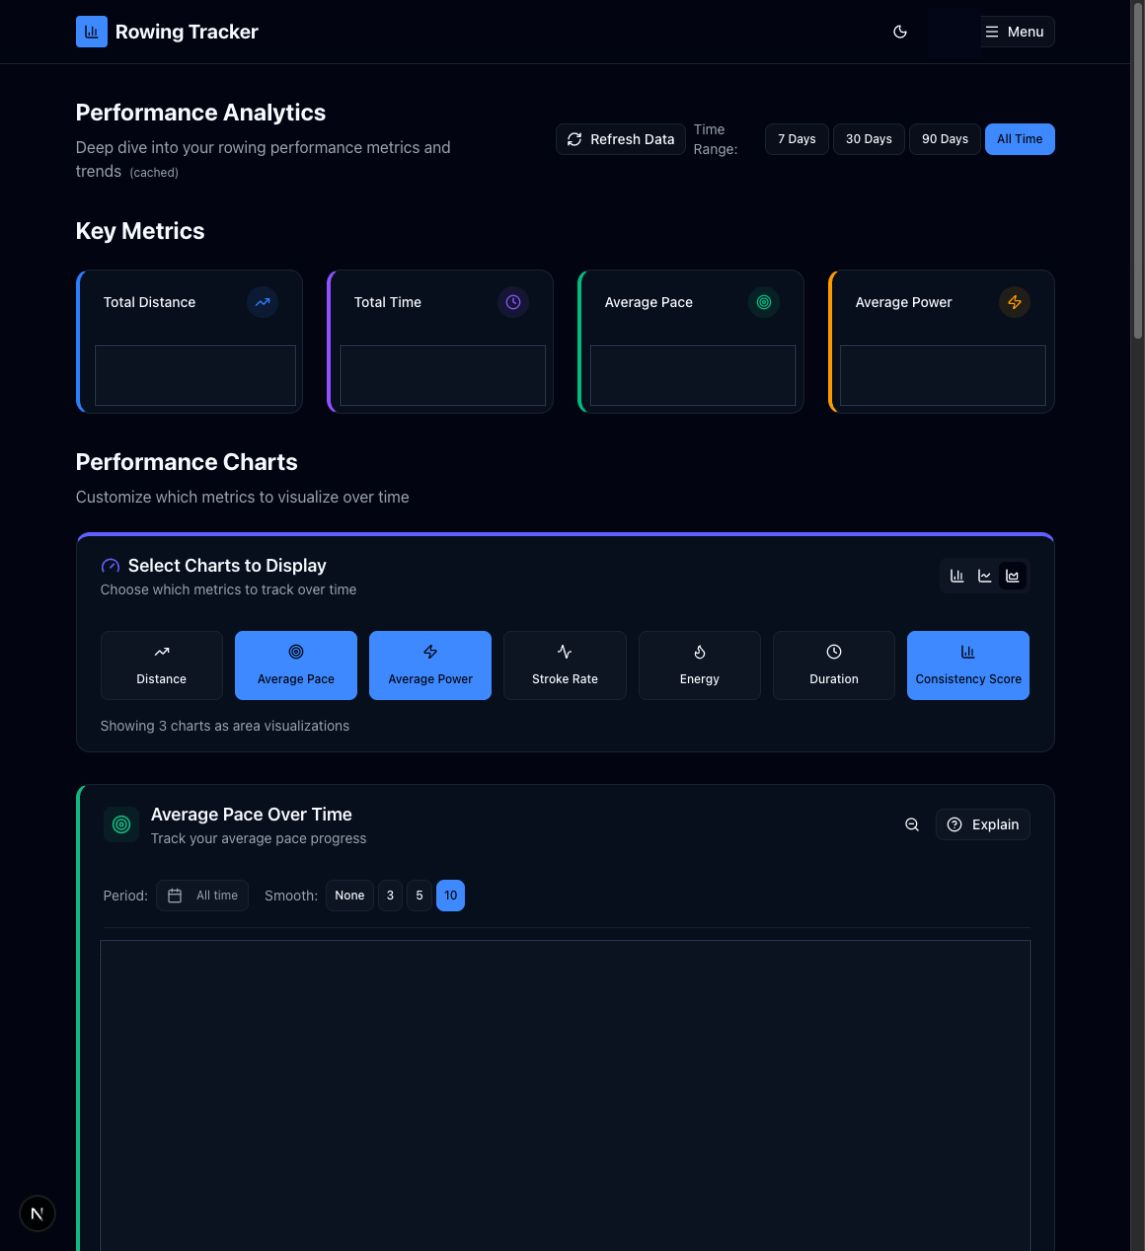
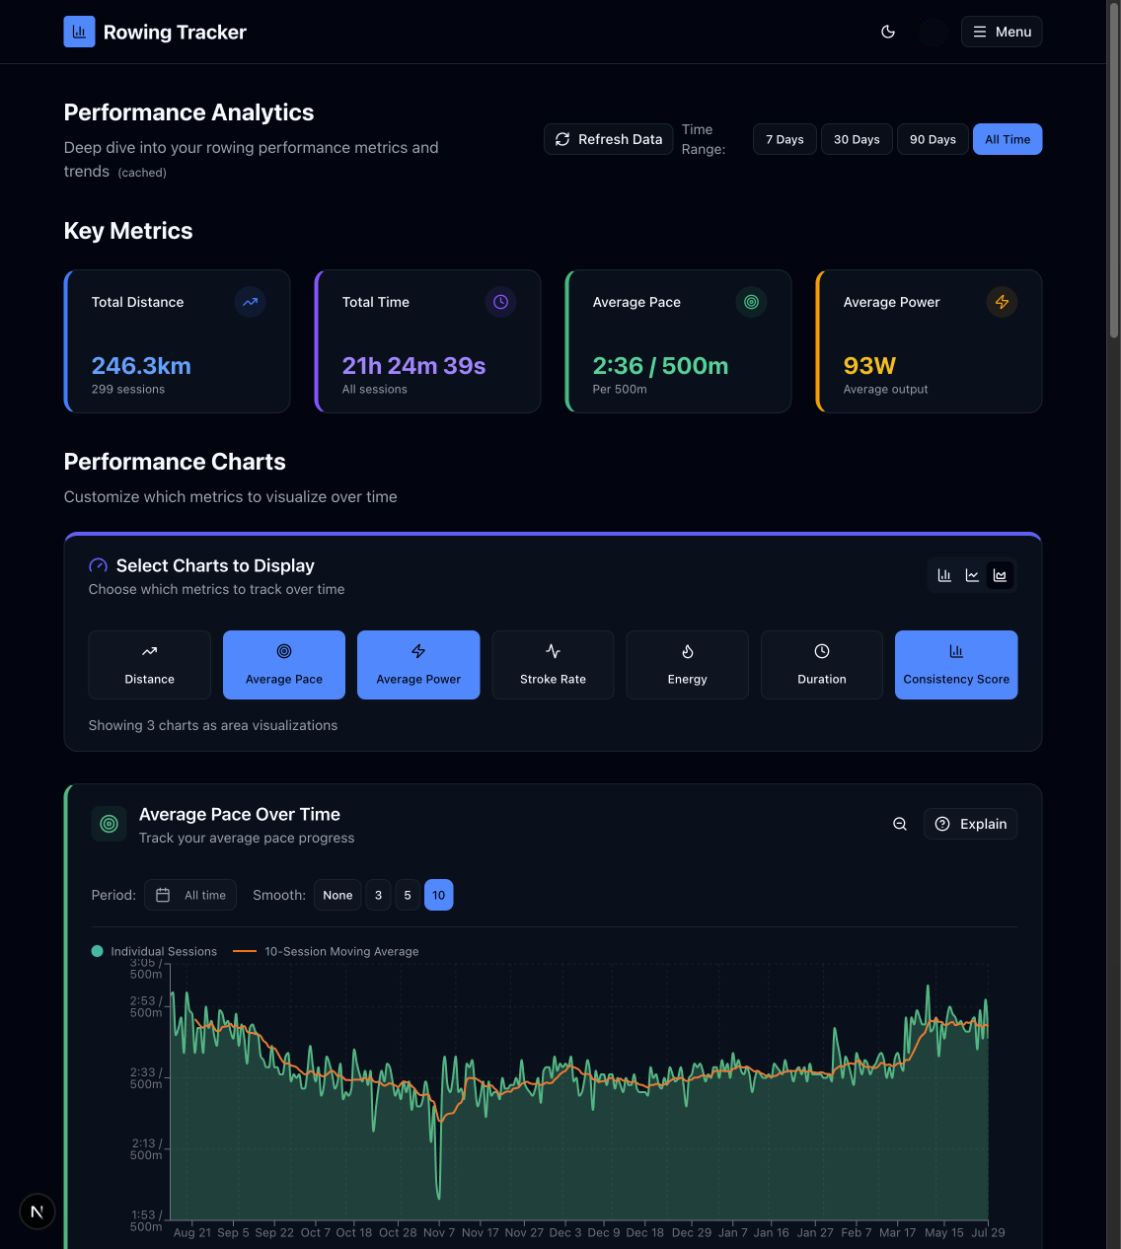
docs: refine screenshot privacy masks

diff --git a/docs/user-guide/README.md b/docs/user-guide/README.md
@@ -2,11 +2,11 @@
 
 This guide documents the authenticated Rowing Tracker interface as observed in the running app on July 30, 2026. It covers all nine entries in the main navigation plus the Profile, Settings, and Admin Panel destinations in the account menu.
 
-The screenshots were captured with the current authenticated account. Opaque privacy masks cover direct identifiers, the account photo, workout values and dates, AI-generated content, private document names, video frames, and other account-derived data. Visible availability and enabled states are live examples and will change with the account.
+The screenshots were captured with the current authenticated account. Numbers, dates, statistics, graphs, records, and ordinary training content remain visible as live examples. Direct identifiers, account photos, credentials, private documents, personal system-prompt/context text, and recognizable Mocap video frames are masked or kept outside the frame.
 
 ## Navigation
 
-![The open Rowing Tracker navigation menu with account content masked](images/00-navigation-menu.png)
+![The open Rowing Tracker navigation menu](images/00-navigation-menu.png)
 
 | Control | What it does |
 | --- | --- |

diff --git a/docs/user-guide/03-sessions.md b/docs/user-guide/03-sessions.md
@@ -4,7 +4,7 @@ Routes: `/sessions` and `/sessions/{sessionId}`
 
 Sessions is the workout history and the entry point to individual workout analysis. The current account contains both summary-only workouts and enhanced workouts with stroke-by-stroke data.
 
-![Session list with workout rows and the account image masked](images/03-sessions.png)
+![Session list with live workout rows](images/03-sessions.png)
 
 ## Session list
 
@@ -26,7 +26,7 @@ Sessions is the workout history and the entry point to individual workout analys
 
 ## Session detail
 
-![A stroke-rich session detail with workout values masked and the Deep Analysis tab selected](images/03-sessions-detail.png)
+![A stroke-rich session detail with live values and the Deep Analysis tab selected](images/03-sessions-detail.png)
 
 The header and summary area displays distance, duration, average pace, average power, pace/power details, stroke rate, energy, work, stroke count, stroke length, and power per kilogram when the source data provides them.
 

diff --git a/docs/user-guide/07-ai-coach.md b/docs/user-guide/07-ai-coach.md
@@ -2,9 +2,9 @@
 
 Route: `/chat`
 
-AI Coach combines normal conversations, chart explanations, plan analyses, and insight discussions. The current account had no configured API key during capture, so existing conversation counts remained visible while New Chat and the message composer were unavailable.
+AI Coach combines normal conversations, chart explanations, plan analyses, and insight discussions. AI was configured during the new capture, with an existing chart explanation selected so the conversation controls, ordinary training metrics, and generated analysis are visible. Direct account identifiers and one health-context phrase are masked; private document contents remain outside the frame.
 
-![AI Coach showing the current AI-not-configured state with the memory count masked](images/07-ai-coach.png)
+![AI Coach with a live chart-explanation conversation and memory count](images/07-ai-coach.png)
 
 ## Header controls
 

diff --git a/docs/user-guide/08-mocap.md b/docs/user-guide/08-mocap.md
@@ -24,7 +24,7 @@ The status panel exposes the capture state, worker state, received frames, frame
 
 ## Session library
 
-![The Mocap session library with capture dates and derived values masked](images/08-mocap-sessions.png)
+![The Mocap session library with live capture dates and derived values](images/08-mocap-sessions.png)
 
 Each card reports capture time, status, mode, perspective, duration, optional quality score, assignment state, stroke/fault totals, and quality flags.
 
@@ -40,7 +40,7 @@ Status badges distinguish Ready, Analyzing, Capturing, Linked, Ready to assign, 
 
 ## Replay and assignment
 
-![A Mocap replay with the private video, dates, and derived technique values masked](images/08-mocap-replay.png)
+![A Mocap replay with only the recognizable private video frame masked](images/08-mocap-replay.png)
 
 | Control or active element | What it does | State or caution |
 | --- | --- | --- |

diff --git a/docs/user-guide/05-personal-records.md b/docs/user-guide/05-personal-records.md
@@ -4,7 +4,7 @@ Route: `/prs`
 
 Personal Records summarizes standout workouts and the complete achievement catalog. Record cards link back to the workout that earned the result.
 
-![Personal Records with account-derived record values and dates masked](images/05-personal-records.png)
+![Personal Records with live record values and dates](images/05-personal-records.png)
 
 ## Record sections
 
@@ -32,7 +32,7 @@ Personal Records summarizes standout workouts and the complete achievement catal
 
 ## AI award suggestions
 
-![AI Award Suggestions dialog with the underlying account content and available-session count masked](images/05-personal-records-suggestions.png)
+![AI Award Suggestions dialog with the live available-session count](images/05-personal-records-suggestions.png)
 
 | Control | What it does | State or caution |
 | --- | --- | --- |

diff --git a/docs/user-guide/12-admin.md b/docs/user-guide/12-admin.md
@@ -2,9 +2,9 @@
 
 Route: `/admin`
 
-Admin Dashboard is available only to administrator accounts. Non-admin users are redirected to the Dashboard. User rows are deliberately excluded from the screenshot so names, email addresses, account IDs, and activity totals remain private.
+Admin Dashboard is available only to administrator accounts. Non-admin users are redirected to the Dashboard. Names, email addresses, and account IDs are masked in the screenshot; roles, verification states, activity totals, creation dates, and action controls remain visible.
 
-![The Admin Dashboard title and privacy-safe table headers](images/12-admin.png)
+![The Admin Dashboard with user identity columns masked and operational columns visible](images/12-admin.png)
 
 ## User table
 

diff --git a/docs/user-guide/04-insights.md b/docs/user-guide/04-insights.md
@@ -4,7 +4,7 @@ Route: `/insights`
 
 AI Insights is the searchable history of generated training observations. The current tab holds the newest batch; older batches live in the archive.
 
-![Current AI Insights with account-derived dates, counts, and generated content masked](images/04-insights.png)
+![Current AI Insights with live dates, counts, generated content, filters, and feedback controls](images/04-insights.png)
 
 ## Controls and active elements
 

diff --git a/docs/user-guide/01-dashboard.md b/docs/user-guide/01-dashboard.md
@@ -4,7 +4,7 @@ Route: `/dashboard`
 
 The Dashboard is the at-a-glance home screen. It combines lifetime and time-filtered rowing metrics, streaks, month-to-month comparisons, the latest AI insights, and a configurable metric comparison chart.
 
-![Dashboard with account-derived values and insight content masked](images/01-dashboard.png)
+![Dashboard with live metrics, comparisons, and insight controls](images/01-dashboard.png)
 
 ## Sections
 

diff --git a/docs/user-guide/11-settings.md b/docs/user-guide/11-settings.md
@@ -25,7 +25,7 @@ The left category buttons switch the visible card. **Reset Category** restores e
 
 ## Data Management
 
-![Data Management settings with account-specific storage totals masked](images/11-settings-data-management.png)
+![Data Management settings with live storage totals and credential placeholders](images/11-settings-data-management.png)
 
 | Control or active element | What it does | State or caution |
 | --- | --- | --- |

diff --git a/docs/user-guide/02-analytics.md b/docs/user-guide/02-analytics.md
@@ -4,7 +4,7 @@ Route: `/analytics`
 
 Analytics is the detailed multi-session analysis workspace. It combines time-filtered summary metrics, selectable trend charts, posture-fault frequency, and performance correlations.
 
-![Analytics with account-derived metric values and chart data masked](images/02-analytics.png)
+![Analytics with live metric values and chart data](images/02-analytics.png)
 
 ## Sections
 
